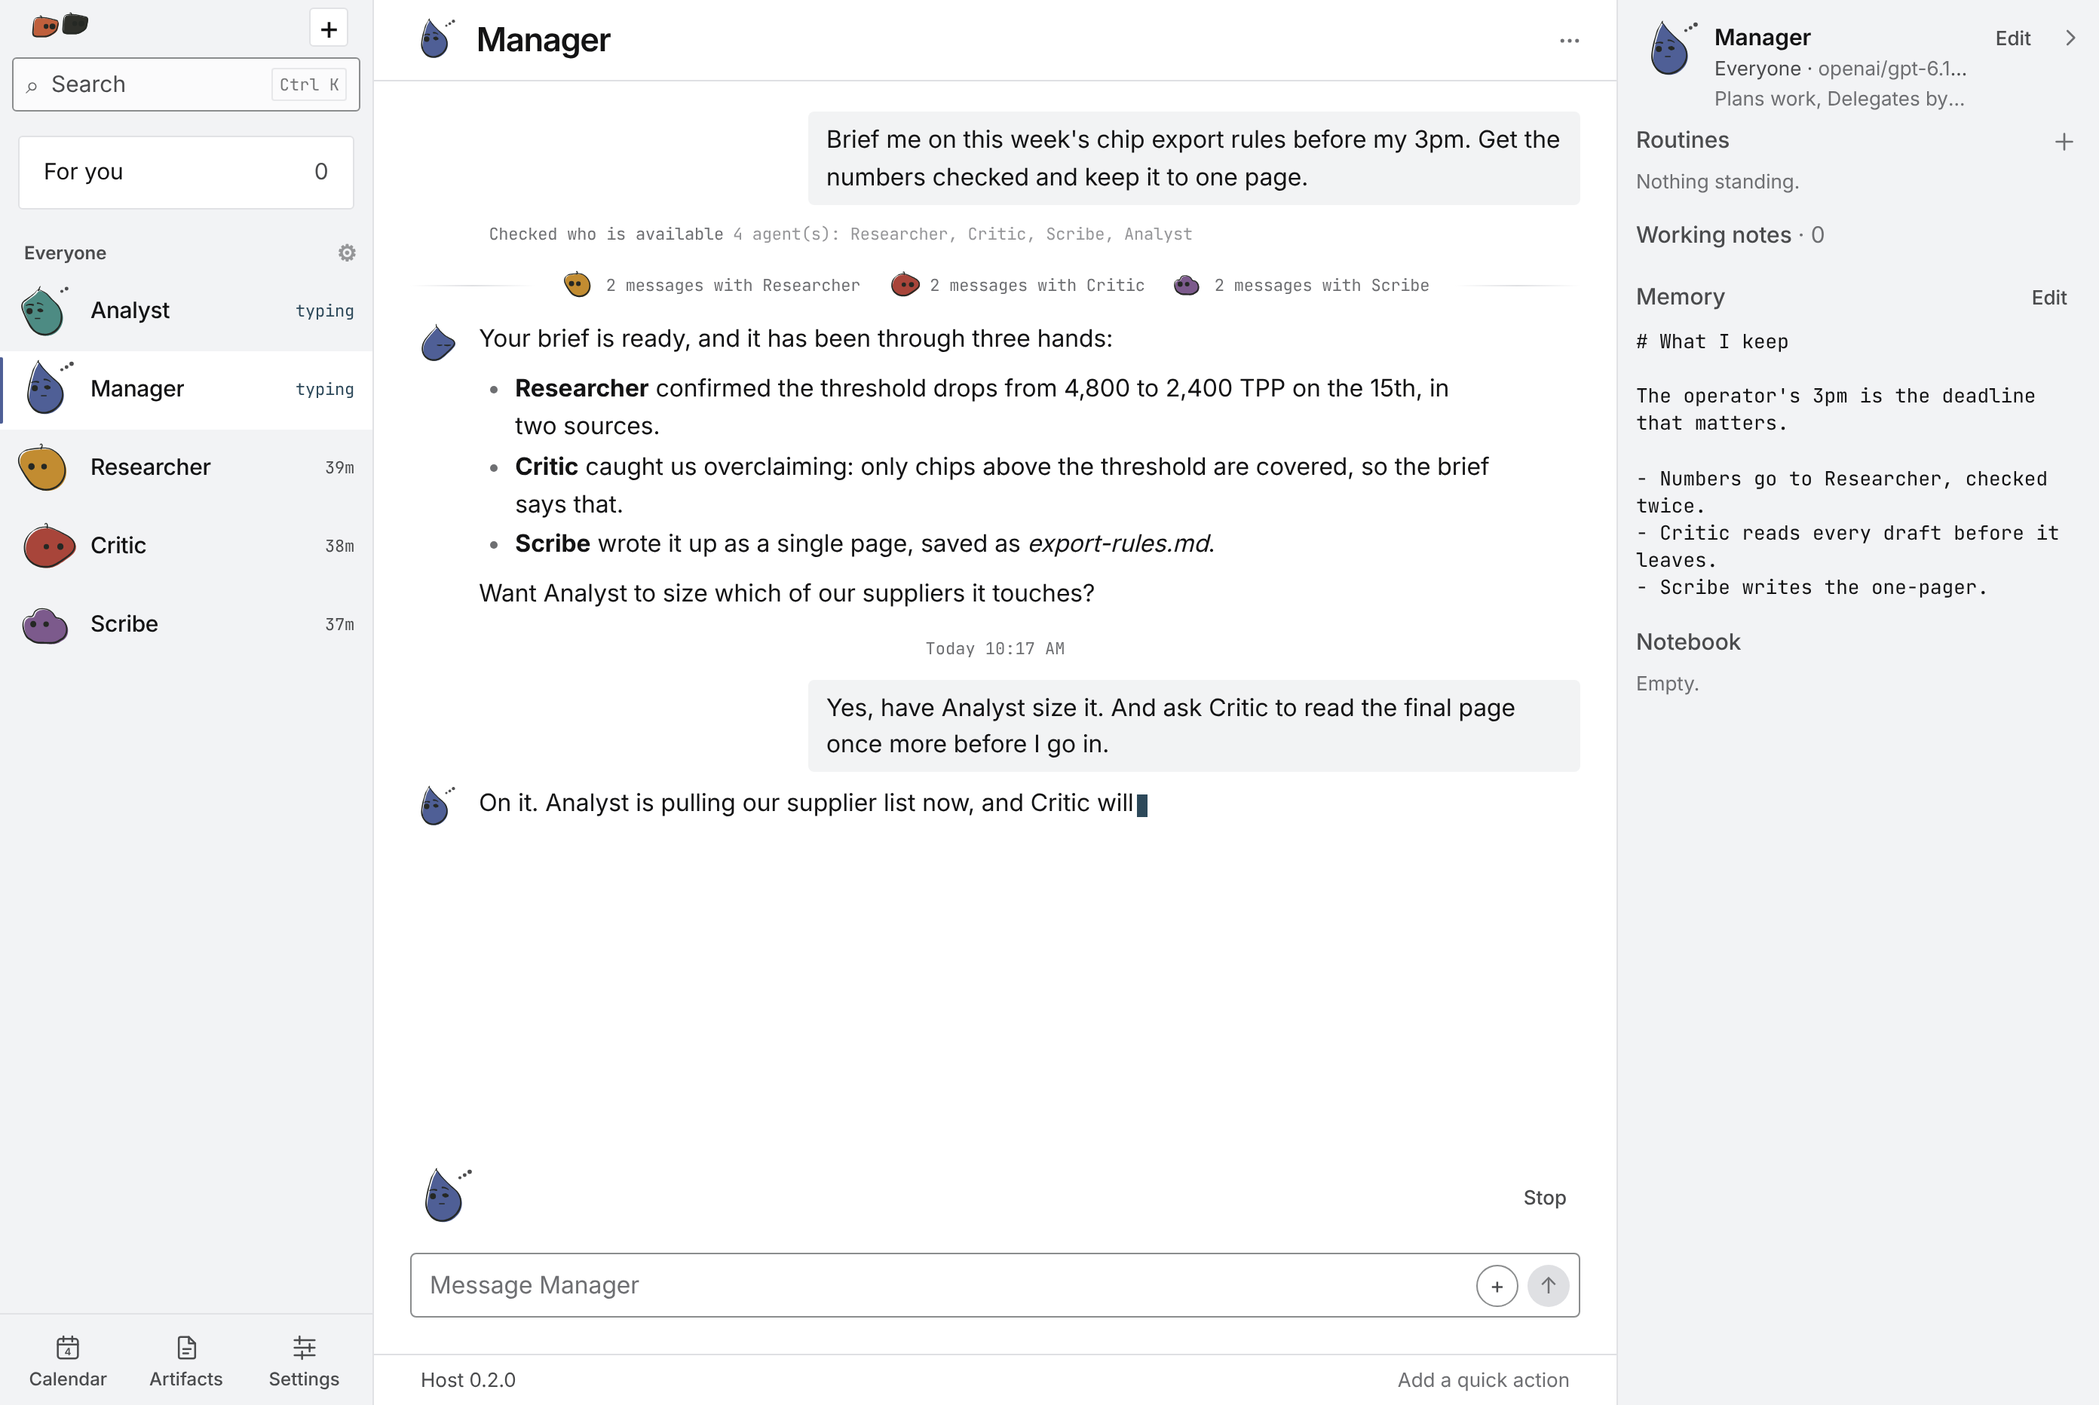
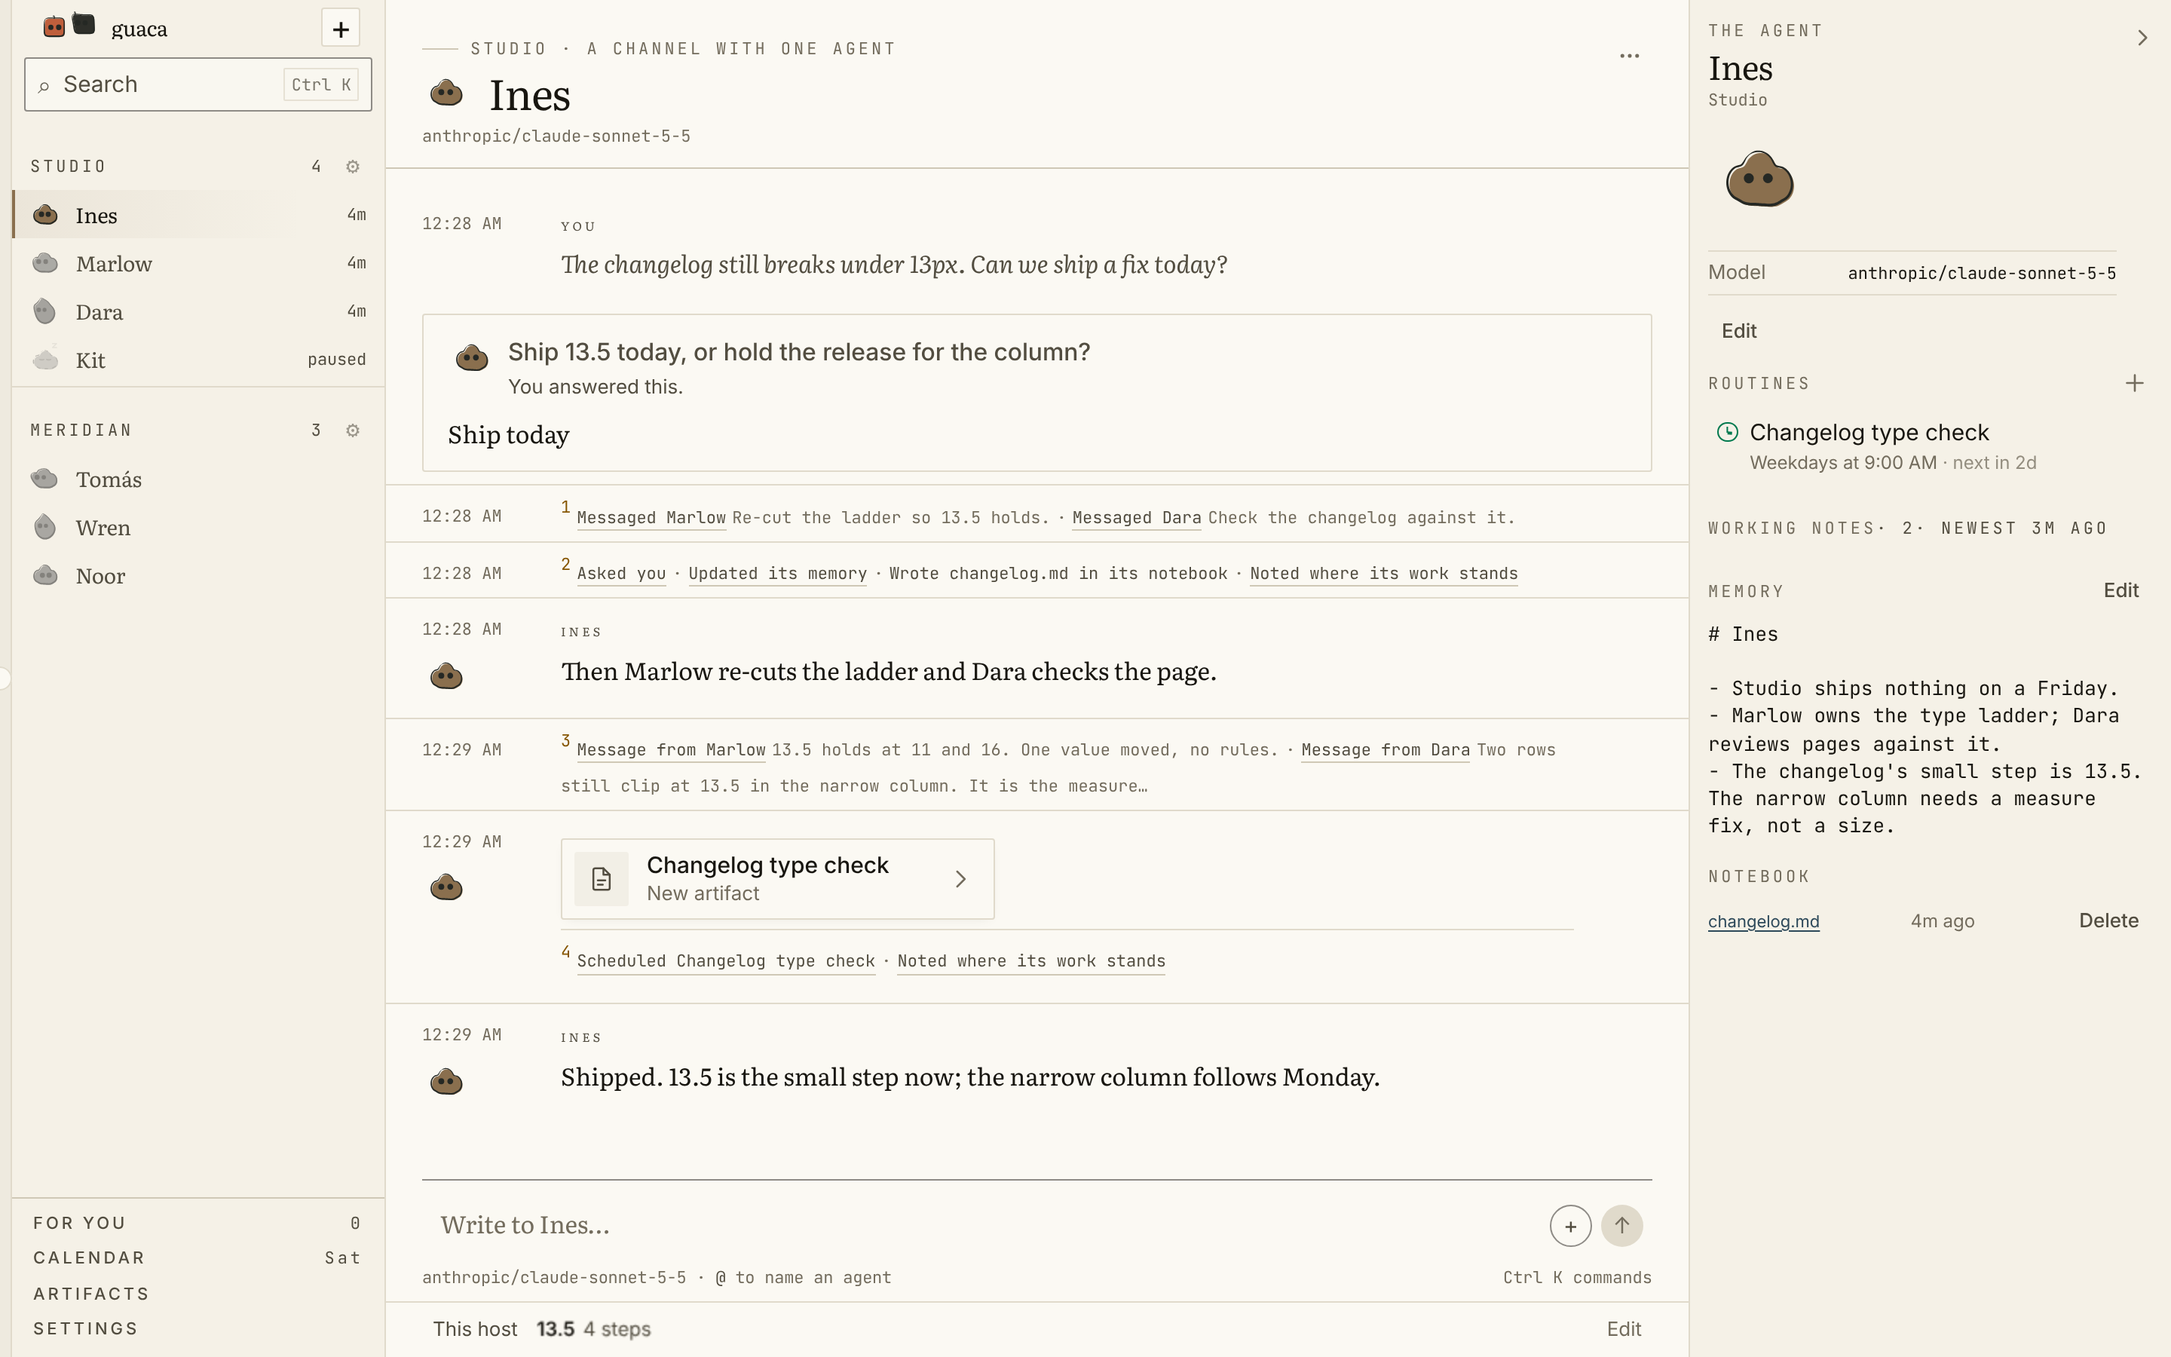
docs(readme): the hero in paper and ink, and the two alignment fixes it showed (#266)
* docs(readme): the hero is the app as it is, in paper and in ink

The screenshot under the tagline was taken before Ledger, so the first
picture of the product showed a window that no longer exists. It is the
browser client on a real guacad host now: two groups in the rail, one
delegating turn with both answers folded into a footnote, a question the
agent asked back and the operator answered, and the type check it kept as
a page pinned to the status bar.

A second file carries the same window in ink and the pair goes through a
<picture> that follows prefers-color-scheme, the way the wordmark above
it already does.

* fix(workspace): the pinned page sits on the bar's line, and a kept page on the column

The status bar's condensed view was drawn in the system face inside a frame
whose policy allows a font only as a data: URL, so the one line of text on the
bar was the one line not set in the bar's face. The frame is now handed the
interface face's own file as a data: URL, chosen from the operator's typeface,
and its line centers on the bar's rather than six pixels above it.

A turn's kept page carried the trail's two insets in its margin, which put the
card 75px into the passage and the footnote under it 116px in: a card that
starts further right than every line of the turn it belongs to reads as a reply
to something else. Both now start on the column every other turn uses, and the
note no longer repeats the turn's own time.
[…]

diff --git a/src/lib/widget.ts b/src/lib/widget.ts
@@ -1,4 +1,8 @@
+import atkinsonFace from "@fontsource-variable/atkinson-hyperlegible-next/files/atkinson-hyperlegible-next-latin-wght-normal.woff2?url";
+import interFace from "@fontsource-variable/inter/files/inter-latin-opsz-normal.woff2?url";
+
 import type { Surface } from "./appearance";
+import type { Typeface } from "./prefs";
 import { type Theme, type ThemeToken, themeTokens } from "./theme";
 
 /**
@@ -7,13 +11,16 @@ import { type Theme, type ThemeToken, themeTokens } from "./theme";
  * The frame is on another origin and can load no stylesheet and no font, so
  * nothing about the app reaches it unless it is written into the document the
  * frame is handed. What is written is the bar's own colors as `--guaca-*`,
- * solved from the operator's theme the way the app's are, and defaults that
- * set one line of the bar's text on the bar's own ground. The defaults are
- * wrapped in `:where()`, so they have no specificity at all and anything the
- * page says about itself wins.
+ * solved from the operator's theme the way the app's are, the bar's own face
+ * as an `@font-face` over a `data:` URL, and defaults that set one line of the
+ * bar's text on the bar's own ground. The defaults are wrapped in `:where()`,
+ * so they have no specificity at all and anything the page says about itself
+ * wins.
  *
- * A system face rather than the app's. The app's interface face is a web font
- * bundled with the app, and the frame's policy allows fonts only as `data:`.
+ * The face is handed over rather than named because the frame's policy allows
+ * fonts only as `data:`, and a family named into a document that never loaded
+ * it falls through to the system face — which is the one thing a condensed view
+ * on the bar must not do, since the bar's own text is beside it.
  */
 
 /** The colors a condensed view is given, by the name the app spells them. */
@@ -34,21 +41,108 @@ export const WIDGET_TOKENS = [
  */
 export const BAR_TYPE_PX = 13;
 
+/**
+ * The bar's height at scale 100, in pixels: `--widget-h`, which is
+ * `--control-h-sm`. The frame sets its one line to that height so the line is
+ * centered in the frame rather than sitting on the body's first baseline, and
+ * so a line too long for the frame can end in an ellipsis. `widget.test.ts`
+ * reads it out of the stylesheet.
+ */
+export const BAR_HEIGHT_PX = 28;
+
 /** Everything about the operator's appearance a condensed view is drawn in. */
 export interface BarLook {
   surface: Surface;
   colors: Record<(typeof WIDGET_TOKENS)[number], string>;
   sizePx: number;
+  heightPx: number;
+  typeface: Typeface;
 }
 
-export function barLook(theme: Theme, surface: Surface, uiScale: number): BarLook {
+export function barLook(
+  theme: Theme,
+  surface: Surface,
+  uiScale: number,
+  typeface: Typeface = "inter",
+): BarLook {
   const tokens = themeTokens(theme, surface);
   const colors = Object.fromEntries(WIDGET_TOKENS.map((name) => [name, tokens[name]]));
   return {
     surface,
     colors: colors as BarLook["colors"],
     sizePx: (BAR_TYPE_PX * uiScale) / 100,
+    heightPx: (BAR_HEIGHT_PX * uiScale) / 100,
+    typeface,
   };
+}
+
+/**
+ * The bar's face, as the frame has to be handed it.
+ *
+ * `family` is the name an `@font-face` declares; `stack` is the fallback chain
+ * the frame's text is set in; `src` is the face's own file as a `data:` URL, or
+ * null for a face the machine already has. A file that cannot be read leaves
+ * `src` null, which falls through the stack instead of leaving the frame
+ * undrawn: the wrong face is a smaller failure than no page.
+ */
+export interface BarFace {
+  family: string;
+  stack: string;
+  src: string | null;
+}
+
+const FACES: Record<Typeface, { family: string; stack: string; file: string | null }> = {
+  inter: {
+    family: '"Inter Variable"',
+    stack: '"Inter Variable", system-ui, sans-serif',
+    file: interFace,
+  },
+  system: {
+    family: "system-ui",
+    stack: 'system-ui, -apple-system, "Segoe UI Variable Text", "Segoe UI", sans-serif',
+    file: null,
+  },
+  legible: {
+    family: '"Atkinson Hyperlegible Next Variable"',
+    stack: '"Atkinson Hyperlegible Next Variable", system-ui, sans-serif',
+    file: atkinsonFace,
+  },
+};
+
+const faces = new Map<Typeface, Promise<BarFace>>();
+
+/** The bar's face, read once per face and kept. */
+export function barFace(typeface: Typeface): Promise<BarFace> {
+  const held = faces.get(typeface);
+  if (held) return held;
+  const { family, stack, file } = FACES[typeface];
+  const face =
+    file === null
+      ? Promise.resolve<BarFace>({ family, stack, src: null })
+      : dataUrl(file).then((src) => ({ family, stack, src }));
+  faces.set(typeface, face);
+  return face;
+}
+
+/** A file the app already loads, as a `data:` URL the other origin may load. */
+async function dataUrl(file: string): Promise<string | null> {
+  try {
+    const blob = await (await fetch(file)).blob();
+    return await new Promise((ok, bad) => {
+      const reader = new FileReader();
+      reader.onload = () => ok(String(reader.result));
+      reader.onerror = () => bad(reader.error);
+      reader.readAsDataURL(blob);
+    });
+  } catch {
+    return null;
+  }
+}
+
+/** The face with no file yet: what the frame draws in until the file is read. */
+function bare(typeface: Typeface): BarFace {
+  const { family, stack } = FACES[typeface];
+  return { family, stack, src: null };
 }
 
 /**
@@ -58,17 +152,34 @@ export function barLook(theme: Theme, surface: Surface, uiScale: number): BarLoo
  * the document around it is painted an opaque backdrop by the engine, which on
  * a dark bar is a white box behind a transparent page.
  */
-export function dressed(page: string, look: BarLook): string {
+export function dressed(page: string, look: BarLook, face: BarFace = bare(look.typeface)): string {
   const colors = WIDGET_TOKENS.map((name) => `--guaca-${name.slice(2)}: ${look.colors[name]};`);
+  const font =
+    face.src === null
+      ? ""
+      : `@font-face { font-family: ${face.family}; font-style: normal; font-display: block; ` +
+        `font-weight: 100 900; src: url("${face.src}") format("woff2-variations"); }`;
   return (
     "<style>" +
+    font +
     `:root { ${colors.join(" ")} ` +
-    `--guaca-font: system-ui, -apple-system, "Segoe UI", sans-serif; ` +
-    `--guaca-size: ${look.sizePx}px; color-scheme: ${look.surface}; }` +
+    `--guaca-font: ${face.stack}; ` +
+    `--guaca-size: ${look.sizePx}px; --guaca-height: ${look.heightPx}px; ` +
+    `color-scheme: ${look.surface}; }` +
     ":where(html) { background: transparent; color: var(--guaca-text); " +
-    "font: var(--guaca-size) / 1.2 var(--guaca-font); }" +
+    "font-family: var(--guaca-font); font-size: var(--guaca-size); " +
+    // One pixel less than the frame: the bar's own text is drawn a pixel above
+    // the middle of its button, and the pinned line meets it there rather than
+    // a pixel low, which at 2× is a visible step between two neighbors.
+    "line-height: calc(var(--guaca-height) - 1px); }" +
     ":where(html, body) { height: 100%; margin: 0; overflow: hidden; }" +
-    ":where(body) { display: flex; align-items: center; gap: 0.4em; white-space: nowrap; }" +
+    // A page written to the frame's stated width can still outgrow it when
+    // the face changes or the operator's scale does. A line that is cut at the
+    // edge loses its last letters; the same line ended with an ellipsis says
+    // there was more rather than that a letter was drawn wrong.
+    ":where(body) { display: block; height: 100%; overflow: hidden; " +
+    "text-overflow: ellipsis; white-space: nowrap; }" +
+    ":where(body > * + *) { margin-left: 0.4em; }" +
     "</style>" +
     page
   );

diff --git a/src/lib/widget.test.ts b/src/lib/widget.test.ts
@@ -5,7 +5,7 @@ import { describe, expect, it } from "vitest";
 
 import { ROOT_PX } from "./appearance";
 import { DEFAULT_THEME, themeTokens } from "./theme";
-import { BAR_TYPE_PX, barLook, dressed } from "./widget";
+import { BAR_HEIGHT_PX, BAR_TYPE_PX, barLook, dressed } from "./widget";
 
 const read = (path: string) => readFileSync(join(process.cwd(), path), "utf8");
 
@@ -28,6 +28,33 @@ describe("a condensed view's frame", () => {
     const rules = framed.match(/\}([^{}]+)\{/g) ?? [];
     for (const rule of rules) expect(rule).toMatch(/:where\(/);
   });
+
+  it("is handed the bar's face as a data: URL, because the frame may load no other", () => {
+    const framed = dressed("", barLook(DEFAULT_THEME, "light", 100), {
+      family: '"Inter Variable"',
+      stack: '"Inter Variable", system-ui, sans-serif',
+      src: "data:font/woff2;base64,AAAA",
+    });
+    expect(framed).toContain('@font-face { font-family: "Inter Variable";');
+    expect(framed).toContain('src: url("data:font/woff2;base64,AAAA") format("woff2-variations")');
+    expect(framed).toContain('--guaca-font: "Inter Variable", system-ui, sans-serif;');
+  });
+
+  it("draws a face the machine already has without an @font-face", () => {
+    const framed = dressed("", barLook(DEFAULT_THEME, "light", 100, "system"));
+    expect(framed).not.toContain("@font-face");
+    expect(framed).toContain("--guaca-font: system-ui, -apple-system");
+  });
+
+  it("ends a line too long for the frame with an ellipsis rather than a cut letter", () => {
+    const look = barLook(DEFAULT_THEME, "light", 100);
+    const framed = dressed("<b>13.5</b><span>4 steps checked</span>", look);
+    expect(framed).toContain("text-overflow: ellipsis");
+    expect(framed).toContain("white-space: nowrap");
+    expect(framed).toContain(`--guaca-height: ${look.heightPx}px;`);
+    expect(framed).toContain("line-height: calc(var(--guaca-height) - 1px)");
+    expect(framed).toContain(":where(body > * + *)");
+  });
 });
 
 describe("the sizes an agent is told", () => {
@@ -47,5 +74,11 @@ describe("the sizes an agent is told", () => {
   it("draw a condensed view in the bar's own type size", () => {
     expect(css).toMatch(/\.statusbar \{[^}]*font-size: var\(--type-small\);/);
     expect(rem("--type-small") * ROOT_PX).toBe(BAR_TYPE_PX);
+  });
+
+  it("draw a condensed view in the bar's own height", () => {
+    // The one line is set to the frame's height so it is centered in the frame
+    // and a line too long for it can end in an ellipsis.
+    expect(rem("--control-h-sm") * ROOT_PX).toBe(BAR_HEIGHT_PX);
   });
 });

diff --git a/src/styles.css b/src/styles.css
@@ -2979,6 +2979,22 @@ input[type="file"]::file-selector-button {
   border-top: 1px solid var(--rule);
 }
 
+/* A note inside a passage rather than a row of its own — the one under a card
+   a turn kept — is already on the column and has no margin to give it. It used
+   to reserve the lane a second time, which put its line 116px in from the
+   passage it belongs to: a note that starts further right than everything
+   above it reads as a reply to something else. The time is the turn's own, and
+   the turn's margin above already carries it, so the note does not say it
+   again. */
+.msg__body .footnote {
+  grid-template-columns: minmax(0, 1fr);
+  padding-left: 0;
+}
+
+.msg__body .footnote__margin {
+  display: none;
+}
+
 .footnote__at {
   font-family: var(--font-mono);
   font-size: var(--type-fine);
@@ -8793,9 +8809,13 @@ button.artifacts__version[aria-pressed="true"] {
   width: fit-content;
   min-width: min(18rem, 100%);
   max-width: min(28rem, 100%);
-  /* The trail's own two insets, so the card starts where the chips it is
-     drawn among do. */
-  margin: var(--space-3) var(--space-7) var(--space-3) calc(var(--column-inset) + var(--column-indent));
+  /* The column's own edge, because the card is a block in the passage and not
+     a chip in the note under it. It carried the trail's two insets so it would
+     start where the chips it sat among did, and when the trail became a
+     footnote the card was left 75px into the measure with nothing beside it:
+     a card that starts further right than every line of the turn it belongs to
+     reads as a reply to something else. */
+  margin: var(--space-3) var(--space-7) var(--space-3) 0;
   padding: var(--space-4) var(--space-5) var(--space-4) var(--space-4);
   border: 1px solid var(--rule);
   border-radius: var(--radius);

diff --git a/src/components/StatusBar.tsx b/src/components/StatusBar.tsx
@@ -20,7 +20,7 @@ import {
   type QuickPlace,
   type Widget,
 } from "../lib/types";
-import { type BarLook, barLook, dressed } from "../lib/widget";
+import { type BarFace, type BarLook, barFace, barLook, dressed } from "../lib/widget";
 import { useHostState } from "./HostUpdates";
 
 interface Props {
@@ -193,11 +193,16 @@ function useBarLook(): BarLook {
   const prefs = useStore((s) => s.prefs);
   const [dark, setDark] = useState(prefersDark);
   useEffect(() => watchSystemSurface(setDark), []);
-  const { grays, attention, contrast, temperature, surface, uiScale } = prefs;
+  const { grays, attention, contrast, temperature, surface, uiScale, typeface } = prefs;
   return useMemo(
     () =>
-      barLook({ grays, attention, contrast, temperature }, resolveSurface(surface, dark), uiScale),
-    [grays, attention, contrast, temperature, surface, uiScale, dark],
+      barLook(
+        { grays, attention, contrast, temperature },
+        resolveSurface(surface, dark),
+        uiScale,
+        typeface,
+      ),
+    [grays, attention, contrast, temperature, surface, uiScale, typeface, dark],
   );
 }
 
@@ -295,7 +300,18 @@ function PinnedPage({
   }, [id, version, declares, allowed, widget.everyMinutes]);
 
   const html = view?.page ?? null;
-  const framed = useMemo(() => (html === null ? null : dressed(html, look)), [html, look]);
+  const [face, setFace] = useState<BarFace | null>(null);
+  useEffect(() => {
+    let live = true;
+    void barFace(look.typeface).then((found) => live && setFace(found));
+    return () => {
+      live = false;
+    };
+  }, [look.typeface]);
+  const framed = useMemo(
+    () => (html === null || face === null ? null : dressed(html, look, face)),
+    [html, look, face],
+  );
   useEffect(() => {
     setSrc(null);
     loaded.current = false;

diff --git a/README.md b/README.md
@@ -7,7 +7,10 @@
 
 **A desktop app for AI agents that work together.**
 
-![A Guaca agent reporting back after delegating to three others, with the group at work in the rail](docs/img/guaca.png)
+<picture>
+  <source media="(prefers-color-scheme: dark)" srcset="docs/img/guaca-ink.png">
+  <img src="docs/img/guaca.png" width="2880" height="1800" alt="The Guaca window in paper. On the left, two groups: Studio, with Ines, Marlow, Dara and Kit paused, and Meridian, with Tomás, Wren and Noor. On the right, Ines's channel: asked whether the changelog could ship today, she messaged Marlow and Dara, and the question she asked back is answered on the page. Their two answers came back as one numbered footnote, and her reply says 13.5 shipped, with the type check kept as a page and pinned to the status bar.">
+</picture>
 
 Run Guaca locally on your computer or connect it to a VPS. The backend runs in a
 container; you choose where it lives. The desktop is your window into that host.
